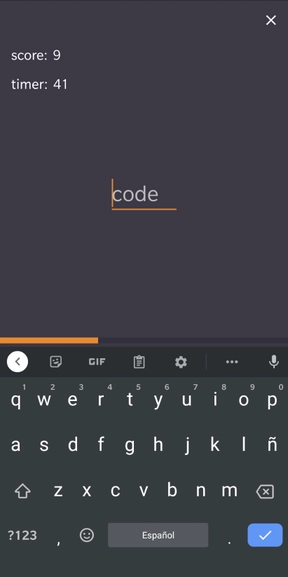
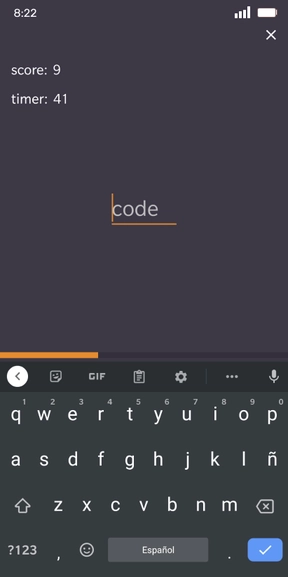
updated screenshots

diff --git a/README.md b/README.md
@@ -12,6 +12,6 @@ Used in this project:</br>
   * Google Cloud Hosting
 
   
-![N|Solid](https://github.com/puntogris/are-you-a-robot/blob/master/screenshots/1.png)
+![N|Solid](https://github.com/puntogris/are-you-a-robot/blob/master/screenshots/1.webp)
 ![N|Solid](https://github.com/puntogris/are-you-a-robot/blob/master/screenshots/2.png)
 ![N|Solid](https://github.com/puntogris/are-you-a-robot/blob/master/screenshots/3.png)
